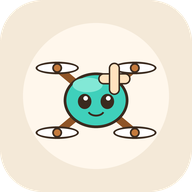
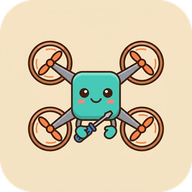
Icône et couverture Gemini (titre ajouté en code), recette notée dans ETAT
Claude-Session: https://claude.ai/code/session_018fYuTLbuTREeCZJgVVsZ9L

diff --git a/sw.js b/sw.js
@@ -2,7 +2,7 @@
 // En ligne : on prend toujours la version la plus récente sur le site (et on la garde en cache).
 // Hors ligne (ou réseau trop lent) : on sert la copie en cache.
 // La liste FILES est refaite par « node tools/maj-cache.mjs » (à lancer après chaque ajout de fichier).
-const VERSION = 'pico-clinic-120e0764';
+const VERSION = 'pico-clinic-aae8a361';
 const FILES = [
   './',
   'audio/music_op.mp3',

diff --git a/docs/ETAT.md b/docs/ETAT.md
@@ -1,9 +1,10 @@
 # Pico-Clinic — État du projet
-Mis à jour : 2026-10-25 (C13 V5 publication, version 1.0.0). Jeu : https://keismey.github.io/Pico-Clinic/ · Essai : https://keismey.github.io/Pico-Clinic/?essai
+Mis à jour : 2026-10-26 (recette automatique + icône et couverture Gemini, version 1.0.0). Jeu : https://keismey.github.io/Pico-Clinic/ · Essai : https://keismey.github.io/Pico-Clinic/?essai
 
 ## Fait
+- 2026-10-26 : icône (`icons/`, 5 tailles, maskable réduite à 80 %) et couverture `couverture.webp` (titre ajouté en code) tirées des images Gemini ; le hub les reprend tout seul. Recette robot : 56 commandes sur 60 jouées au doigt simulé, aucune erreur, FR/EN sans débordement, sons et cache complets.
 - Correctifs recette : bandes de l'abeille découpées à la forme du ventre (ne dépassent plus) ; fumée de la puce grillée cachée pendant les vues rapprochées (gestes secondaires) ; Gribouille explique la dévisseuse à sa première utilisation (leçon `tool_electric_driver`, montrée même sur une commande déjà réussie).
-- C13 V5 : hors ligne (`sw.js` : en ligne la dernière version, sinon la copie ; réseau lent > 4 s → copie ; liste refaite par `node tools/maj-cache.mjs`). Installation : `manifest.webmanifest` (FR) et `manifest-en.webmanifest` (choisi selon la langue), icônes `icons/` et couverture `couverture.webp` dessinées en code (provisoires). Lien `?lang=fr|en`. `tools/verif-langues.mjs` : 678 clés FR = EN, aucune clé manquante, variables identiques. Relecture : EN harmonisé (trace, customer, fried chip, magnifier, power vacuum, racing drone, blueprint), FR « morceau {i} sur {n} », « Version {v} » à l'écran titre. Hub : carte Pico-Clinic (`games.js`, progression rang / étoiles / crédits), raccourci du manifest, nouvelle dans `news.json` (sans notification).
+- C13 V5 : hors ligne (`sw.js` : en ligne la dernière version, sinon la copie ; réseau lent > 4 s → copie ; liste refaite par `node tools/maj-cache.mjs`). Installation : `manifest.webmanifest` (FR) et `manifest-en.webmanifest` (choisi selon la langue), icônes et couverture. Lien `?lang=fr|en`. `tools/verif-langues.mjs` : 678 clés FR = EN, aucune clé manquante, variables identiques. Relecture : EN harmonisé (trace, customer, fried chip, magnifier, power vacuum, racing drone, blueprint), FR « morceau {i} sur {n} », « Version {v} » à l'écran titre. Hub : carte Pico-Clinic (`games.js`, progression rang / étoiles / crédits), raccourci du manifest, nouvelle dans `news.json` (sans notification).
 - C12 V4b : écran Options (langue, volumes, vibrations, tremblement réduit, gaucher, contrastes, effacer) ; défi quotidien dès le rang 3 (`js/daily.js`).
 - C11 V4a : musiques Gemini en boucle, ~35 effets en code (`js/audio.js`, `audio/LISEZMOI.md`), vibrations, particules (max 150), relecture des textes, générique.
 - C9-C10 V3 : 60 commandes, 5 rangs, examens, prototypes et pièces rares exigées, décorations, Atelier libre, textes des chapitres 3 à 5 et de la fin.
@@ -20,9 +21,12 @@ Mis à jour : 2026-10-25 (C13 V5 publication, version 1.0.0). Jeu : https://keis
 
 ## Bugs connus
 - En diagnostic, la fiche peut attraper le doigt avant la loupe. Indices longs un peu serrés.
+- Circuit oxydé : la main de démonstration frotte sur les composants fragiles (montre le mauvais geste).
+- Boutique, 1re visite : la bulle de Gribouille cache la ligne « Pince ».
+- Temps cibles peut-être trop larges (robot : 10 à 30 s pour 90 à 120 s) : à juger au doigt.
 
 ## Prochaine étape
-- Plan terminé (C13 était la dernière étape). Ensuite : correctifs de la recette, puis images Gemini.
+- Correctifs de la recette (bugs ci-dessus), puis recette au doigt sur téléphone.
 
 ## Plus tard
-- Images Gemini (clients, Gribouille, pièces rares, gestes secondaires, image finale, Mamie, icône et couverture du hub). Remplacer `js/back.js` par `ks-back.js` du hub. Succès. Indice 20 s ; pause ; gaucher dans les vues rapprochées ; Options depuis l'atelier ; sauver une réparation en cours ; revoir le tutoriel ; pannes cachées dans la loupe ; retour qui ferme d'abord la vue rapprochée.
+- Images Gemini : non conseillées dans le jeu (mélange de styles, zones à toucher décalées). Remplacer `js/back.js` par `ks-back.js` du hub. Succès. Indice 20 s ; pause ; gaucher dans les vues rapprochées ; Options depuis l'atelier ; sauver une réparation en cours ; revoir le tutoriel ; pannes cachées dans la loupe ; retour qui ferme d'abord la vue rapprochée.
